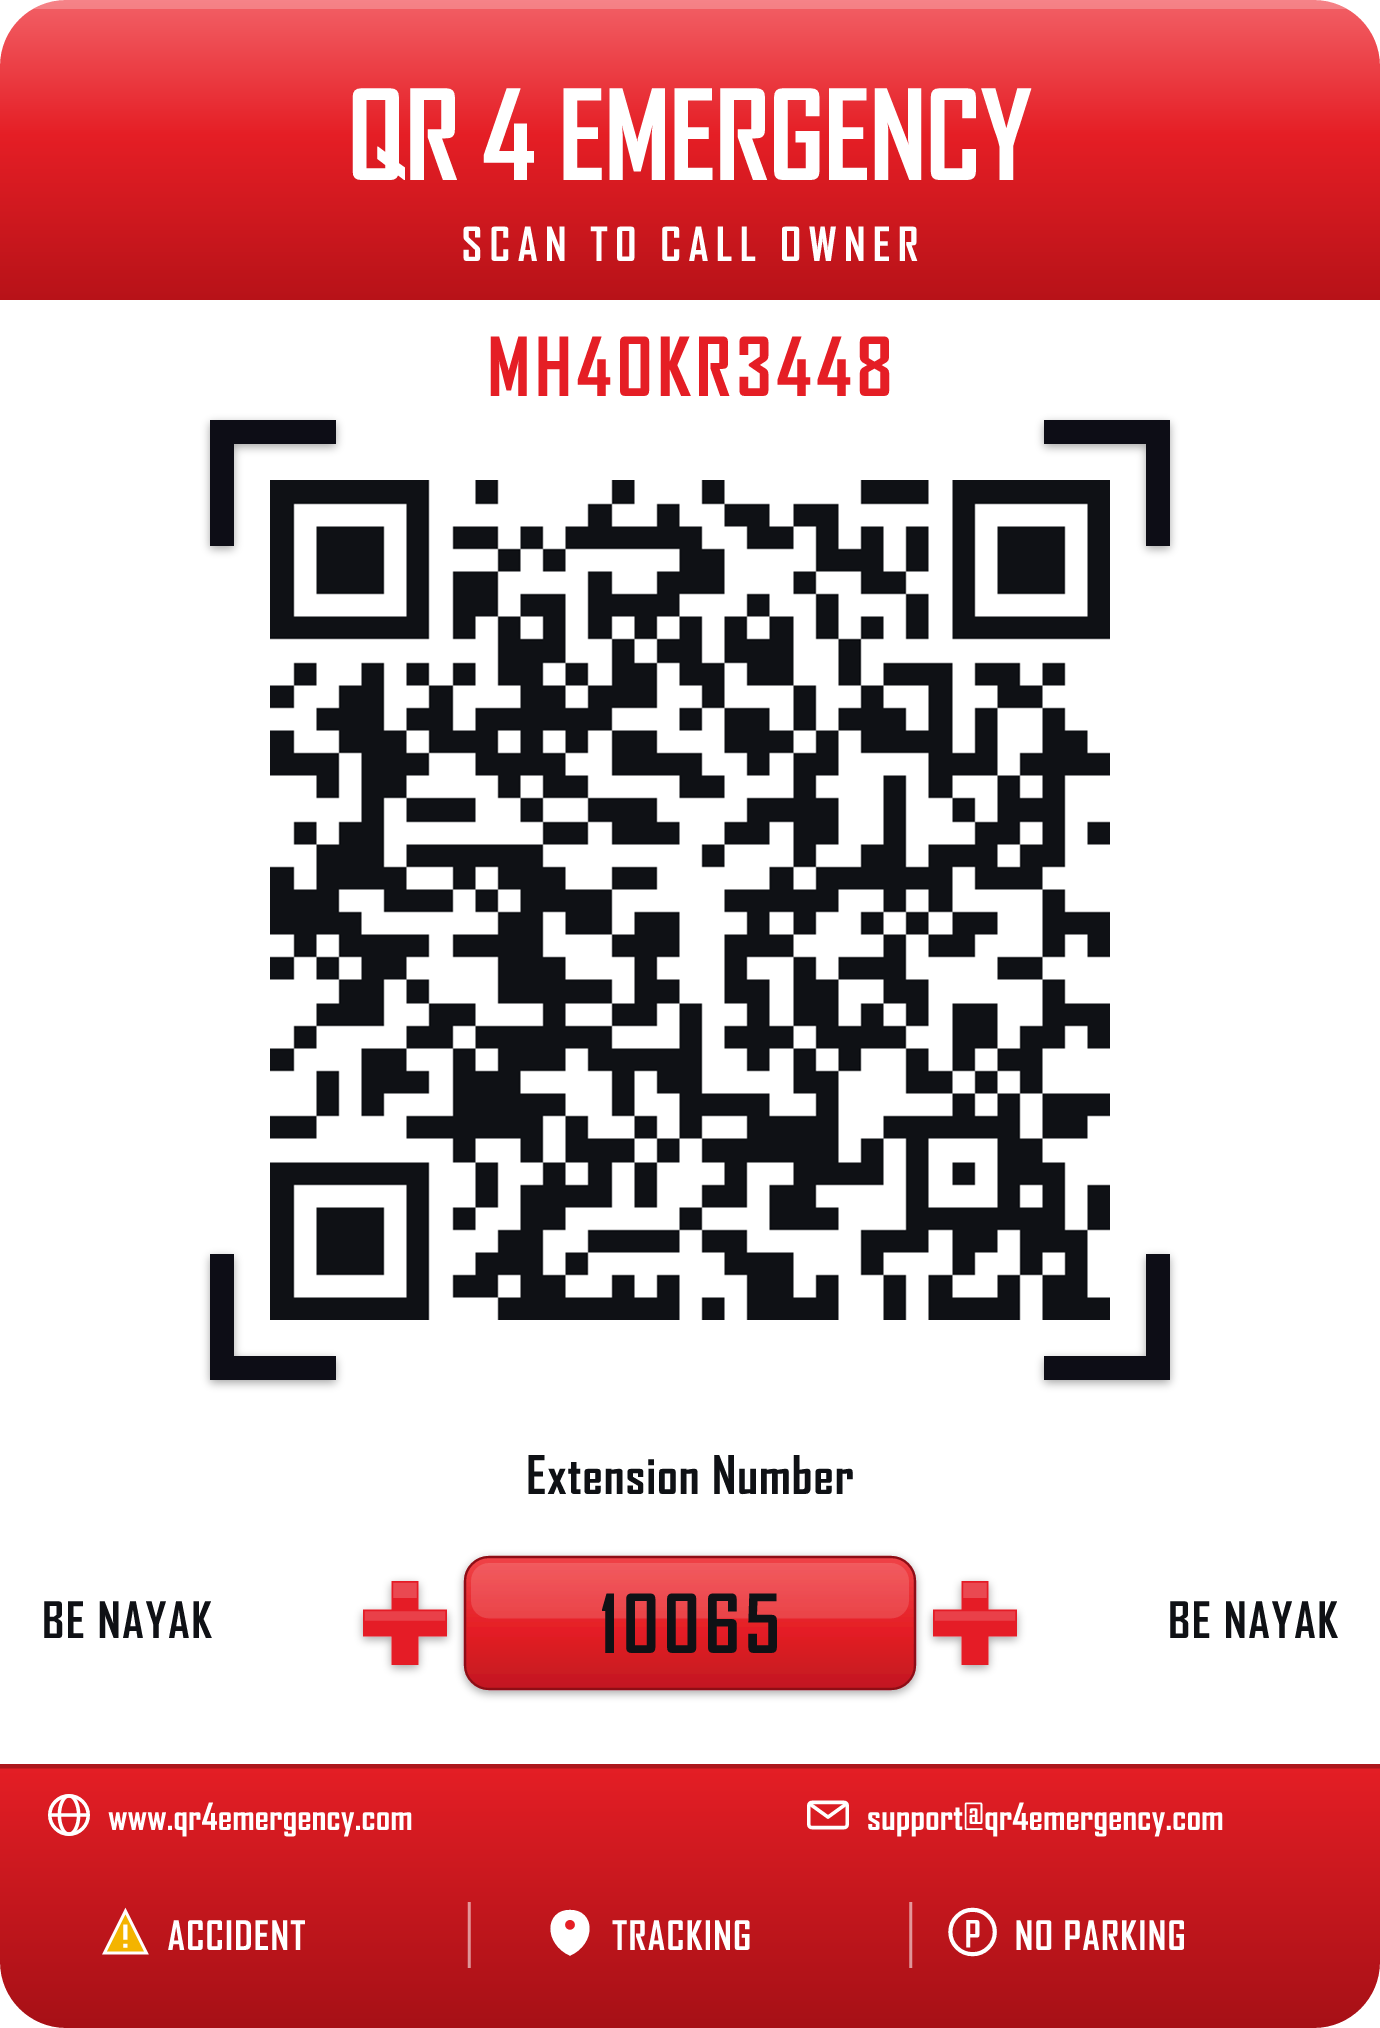
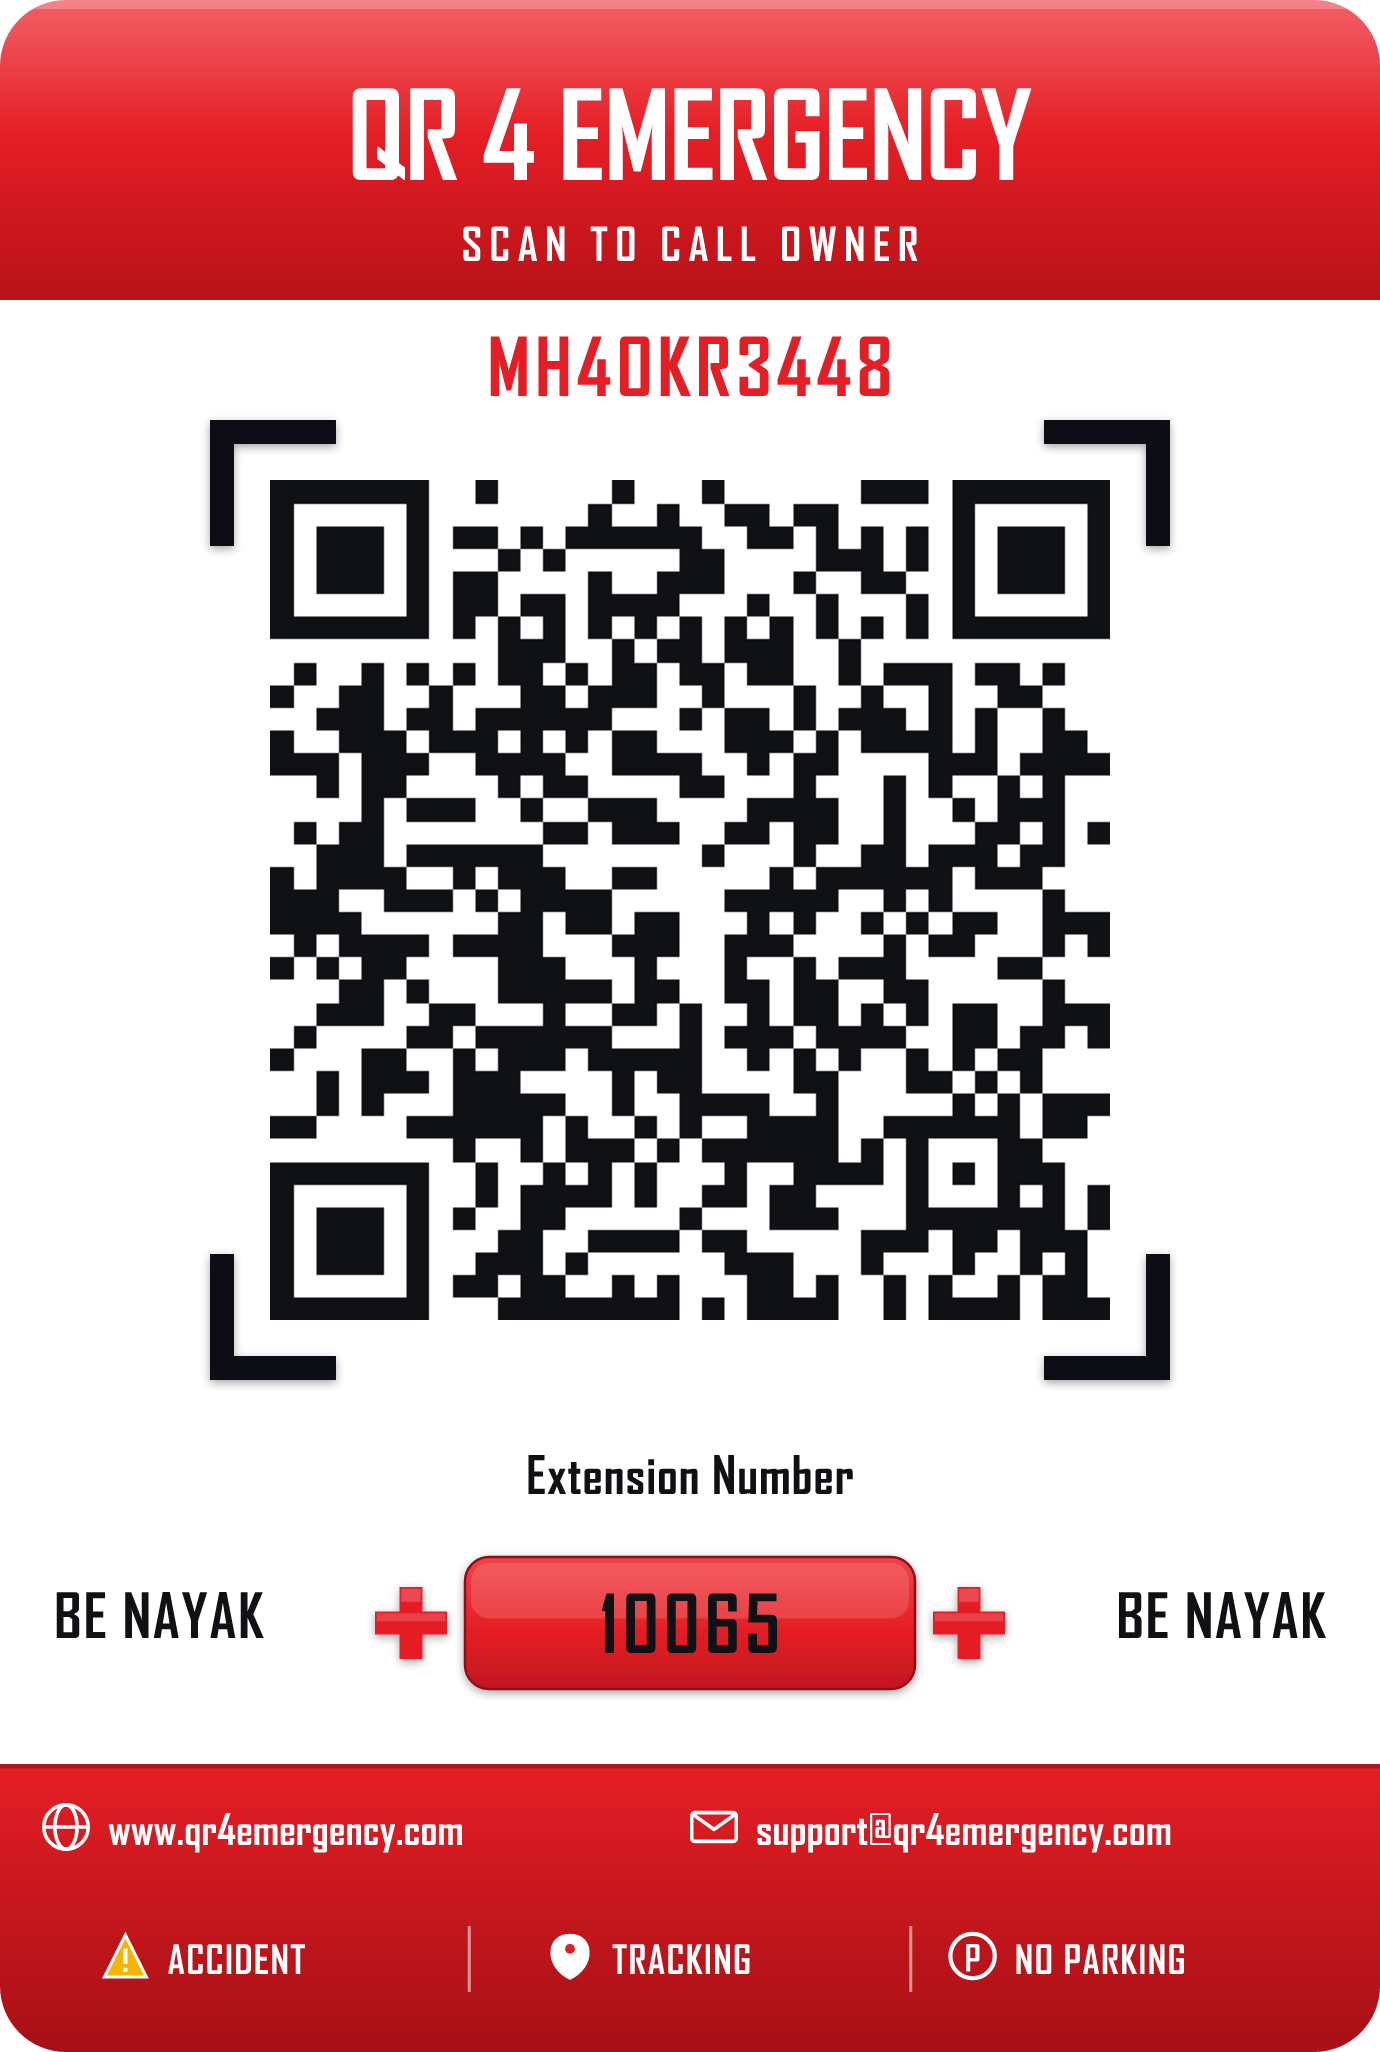
feat: update sticker rendering to load fonts as byte buffers for better compatibility

diff --git a/src/utils/sticker.js b/src/utils/sticker.js
@@ -29,33 +29,37 @@ const WHITE = '#FFFFFF';
 const __dirname = path.dirname(fileURLToPath(import.meta.url));
 const nodeModules = path.resolve(__dirname, '../../node_modules');
 
-function fontPath(rel) {
+function loadFontBuffer(rel) {
   const abs = path.join(nodeModules, rel);
   if (!fs.existsSync(abs)) throw new Error(`font not found at ${abs}`);
-  return abs;
+  return fs.readFileSync(abs);
 }
 
-let FONT_FILES = [];
-// resvg-js silently drops every text node when a comma-separated
-// font-family string references any name it can't resolve. So use a
-// single family name per string — bundled Poppins / JetBrains Mono when
-// available, plain Arial otherwise. resvg's `defaultFontFamily` picks
-// up any final fallback.
+// Load fonts as byte buffers (not file paths) — resvg-js is happier
+// with fontBuffers on Alpine/musl images where the file loader's path
+// resolution is flaky. If a load fails we log loudly and fall back
+// to system fonts so the sticker still renders.
+let FONT_BUFFERS = [];
 let HEADING_FAMILY = 'Arial';
 let BODY_FAMILY = 'Arial';
 let MONO_FAMILY = 'Courier New';
 try {
-  FONT_FILES = [
-    fontPath('@fontsource/poppins/files/poppins-latin-900-normal.woff2'),
-    fontPath('@fontsource/poppins/files/poppins-latin-600-normal.woff2'),
-    fontPath('@fontsource/jetbrains-mono/files/jetbrains-mono-latin-700-normal.woff2'),
+  FONT_BUFFERS = [
+    loadFontBuffer('@fontsource/poppins/files/poppins-latin-900-normal.woff2'),
+    loadFontBuffer('@fontsource/poppins/files/poppins-latin-600-normal.woff2'),
+    loadFontBuffer('@fontsource/jetbrains-mono/files/jetbrains-mono-latin-700-normal.woff2'),
   ];
   HEADING_FAMILY = 'Poppins';
   BODY_FAMILY = 'Poppins';
   MONO_FAMILY = 'JetBrains Mono';
+  console.log(
+    `[sticker] bundled fonts loaded: Poppins 900 (${FONT_BUFFERS[0].length}B), ` +
+      `Poppins 600 (${FONT_BUFFERS[1].length}B), ` +
+      `JetBrains Mono 700 (${FONT_BUFFERS[2].length}B)`
+  );
 } catch (e) {
   console.warn(
-    '[sticker] font packages not found — using system fallback. ' +
+    '[sticker] font packages not found — using system Arial. ' +
       'Run `npm install` in backend/ to bundle Poppins + JetBrains Mono. ' +
       `(${e.message})`
   );
@@ -95,7 +99,7 @@ function buildStickerSvg({ qrPngB64, digits, showVehicle, vehicleNumber }) {
   const ROW_H = 46;
 
   const FOOTER_TOP = ROW_Y + ROW_H + 24;
-  const FOOTER_H = 88;
+  const FOOTER_H = 96; // +8 to fit the larger website/email row 1 text
   const H = FOOTER_TOP + FOOTER_H;
 
   // Bracket arm length — bold Ls at every corner of the QR frame.
@@ -127,15 +131,14 @@ function buildStickerSvg({ qrPngB64, digits, showVehicle, vehicleNumber }) {
   const PILL_Y = ROW_Y + (ROW_H - PILL_H) / 2;
 
   // Bottom row horizontal layout: BE NAYAK ... cross ... pill ... cross ... BE NAYAK
-  // Spacing budget (per side):
-  //   left edge (14) → BE NAYAK label (~80wide at 16pt) → 12px gap →
-  //   cross (28) → 8px gap → pill → 8px gap → cross → 12px gap → BE NAYAK
-  // Adds up cleanly at W=460.
-  const CROSS_SIZE = 28;
-  const leftCrossCx = PILL_X - 20;
-  const rightCrossCx = PILL_X + PILL_W + 20;
-  const leftLabelX = 14;
-  const rightLabelX = W - 14;
+  // Cross size dialled down to 24 so the plus-sign proportionally
+  // matches the pill height (44) — 28 was noticeably taller than the
+  // pill and threw off the visual balance.
+  const CROSS_SIZE = 24;
+  const leftCrossCx = PILL_X - 18;
+  const rightCrossCx = PILL_X + PILL_W + 18;
+  const leftLabelX = 18;
+  const rightLabelX = W - 18;
   const rowCy = ROW_Y + ROW_H / 2;
 
   return `<?xml version="1.0" encoding="UTF-8"?>
@@ -243,7 +246,7 @@ function buildStickerSvg({ qrPngB64, digits, showVehicle, vehicleNumber }) {
     <!-- ── Bottom row: BE NAYAK · cross · pill · cross · BE NAYAK ── -->
     <text x="${leftLabelX}" y="${rowCy + 5}" text-anchor="start"
           font-family="${HEADING_FAMILY}" font-weight="900"
-          font-size="16" fill="${INK}" letter-spacing="0.5">BE NAYAK</text>
+          font-size="20" fill="${INK}" letter-spacing="0.5">BE NAYAK</text>
     ${cross(leftCrossCx, rowCy, CROSS_SIZE)}
 
     <!-- Red pill with black digits — gradient + drop shadow so it
@@ -265,7 +268,7 @@ function buildStickerSvg({ qrPngB64, digits, showVehicle, vehicleNumber }) {
     ${cross(rightCrossCx, rowCy, CROSS_SIZE)}
     <text x="${rightLabelX}" y="${rowCy + 5}" text-anchor="end"
           font-family="${HEADING_FAMILY}" font-weight="900"
-          font-size="16" fill="${INK}" letter-spacing="0.5">BE NAYAK</text>
+          font-size="20" fill="${INK}" letter-spacing="0.5">BE NAYAK</text>
 
     <!-- ── Red footer with two icon rows ───────────────────── -->
     <rect x="0" y="${FOOTER_TOP}" width="${W}" height="${FOOTER_H}" fill="url(#footerGrad)"/>
@@ -274,11 +277,11 @@ function buildStickerSvg({ qrPngB64, digits, showVehicle, vehicleNumber }) {
     <rect x="0" y="${FOOTER_TOP}" width="${W}" height="1.5" fill="#000000" opacity="0.25"/>
 
     <!-- Row 1: globe + website | mail + email -->
-    ${footerRow1(FOOTER_TOP + 20)}
+    ${footerRow1(FOOTER_TOP + 24)}
 
     <!-- Row 2: warning + ACCIDENT | pin + TRACKING | P + NO PARKING,
          separated by thin white vertical dividers -->
-    ${footerRow2(FOOTER_TOP + 60)}
+    ${footerRow2(FOOTER_TOP + 68)}
   </g>
 </svg>`;
 }
@@ -290,24 +293,24 @@ function buildStickerSvg({ qrPngB64, digits, showVehicle, vehicleNumber }) {
 // its icon just to the left) guarantees "support@qr4emergency.com" fits
 // even at font-size 12 without running off the sticker edge.
 function footerRow1(y) {
-  const leftIconX = 16;
-  const leftTextX = leftIconX + 20;
+  const leftIconX = 14;
+  const leftTextX = leftIconX + 22;
   const emailText = 'support@qr4emergency.com';
-  // Approximate email string width at font-size 12 Arial ≈ 155.
-  // Icon (14) + 6 gap = 20 to the left of the text.
-  const rightTextRight = W - 16;
-  const rightIconX = rightTextRight - 155 - 20;
-  const rightTextX = rightIconX + 20;
+  // At font-size 14, Poppins 700 email string ≈ 194px wide; icon (16)
+  // + 6px gap = 22 to the left of the text.
+  const rightTextRight = W - 14;
+  const rightIconX = rightTextRight - 194 - 22;
+  const rightTextX = rightIconX + 22;
   return `
-    ${iconGlobe(leftIconX, y - 10, 14, WHITE)}
-    <text x="${leftTextX}" y="${y + 2}" text-anchor="start"
-          font-family="${BODY_FAMILY}" font-weight="600"
-          font-size="12" fill="${WHITE}">www.qr4emergency.com</text>
+    ${iconGlobe(leftIconX, y - 11, 16, WHITE)}
+    <text x="${leftTextX}" y="${y + 3}" text-anchor="start"
+          font-family="${BODY_FAMILY}" font-weight="700"
+          font-size="14" fill="${WHITE}">www.qr4emergency.com</text>
 
-    ${iconMail(rightIconX, y - 10, 14, WHITE)}
-    <text x="${rightTextX}" y="${y + 2}" text-anchor="start"
-          font-family="${BODY_FAMILY}" font-weight="600"
-          font-size="12" fill="${WHITE}">${emailText}</text>
+    ${iconMail(rightIconX, y - 11, 16, WHITE)}
+    <text x="${rightTextX}" y="${y + 3}" text-anchor="start"
+          font-family="${BODY_FAMILY}" font-weight="700"
+          font-size="14" fill="${WHITE}">${emailText}</text>
   `;
 }
 
@@ -474,11 +477,12 @@ export async function renderStickerPng({
   const resvg = new Resvg(svg, {
     background: WHITE,
     font: {
-      fontFiles: FONT_FILES,
-      // System fonts loaded too so Render's Alpine image has Arial as
-      // a real fallback if the bundled woff2 fails to load.
+      // Pass raw bytes so path-resolution differences between local
+      // Windows and Render's Alpine image don't matter — the fonts
+      // are already in memory.
+      fontBuffers: FONT_BUFFERS,
       loadSystemFonts: true,
-      defaultFontFamily: FONT_FILES.length ? 'Poppins' : 'Arial',
+      defaultFontFamily: FONT_BUFFERS.length ? 'Poppins' : 'Arial',
     },
   });
   return resvg.render().asPng();
